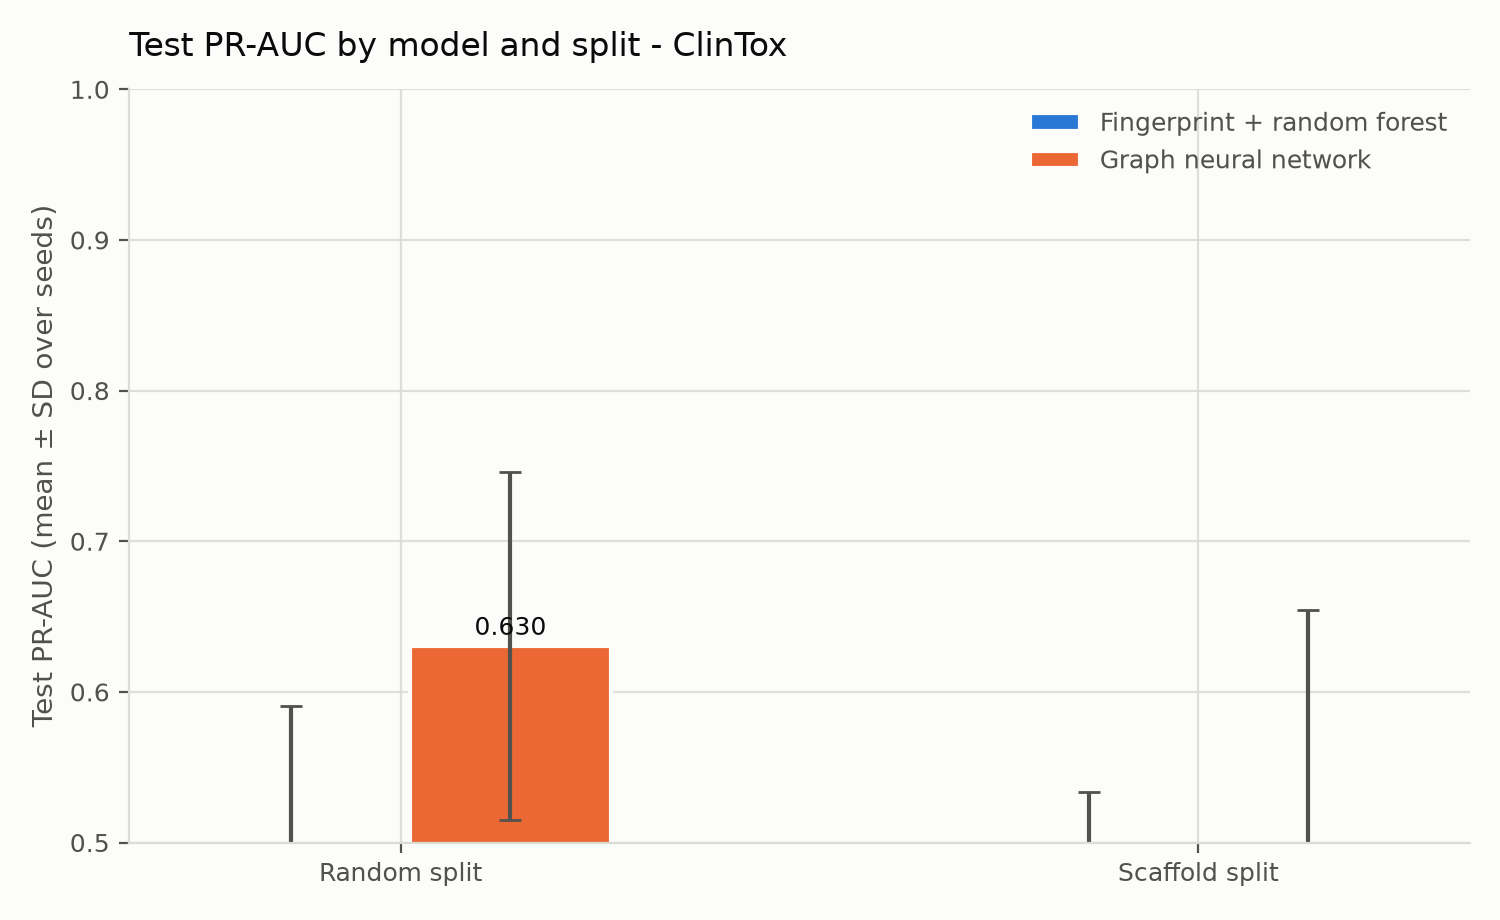
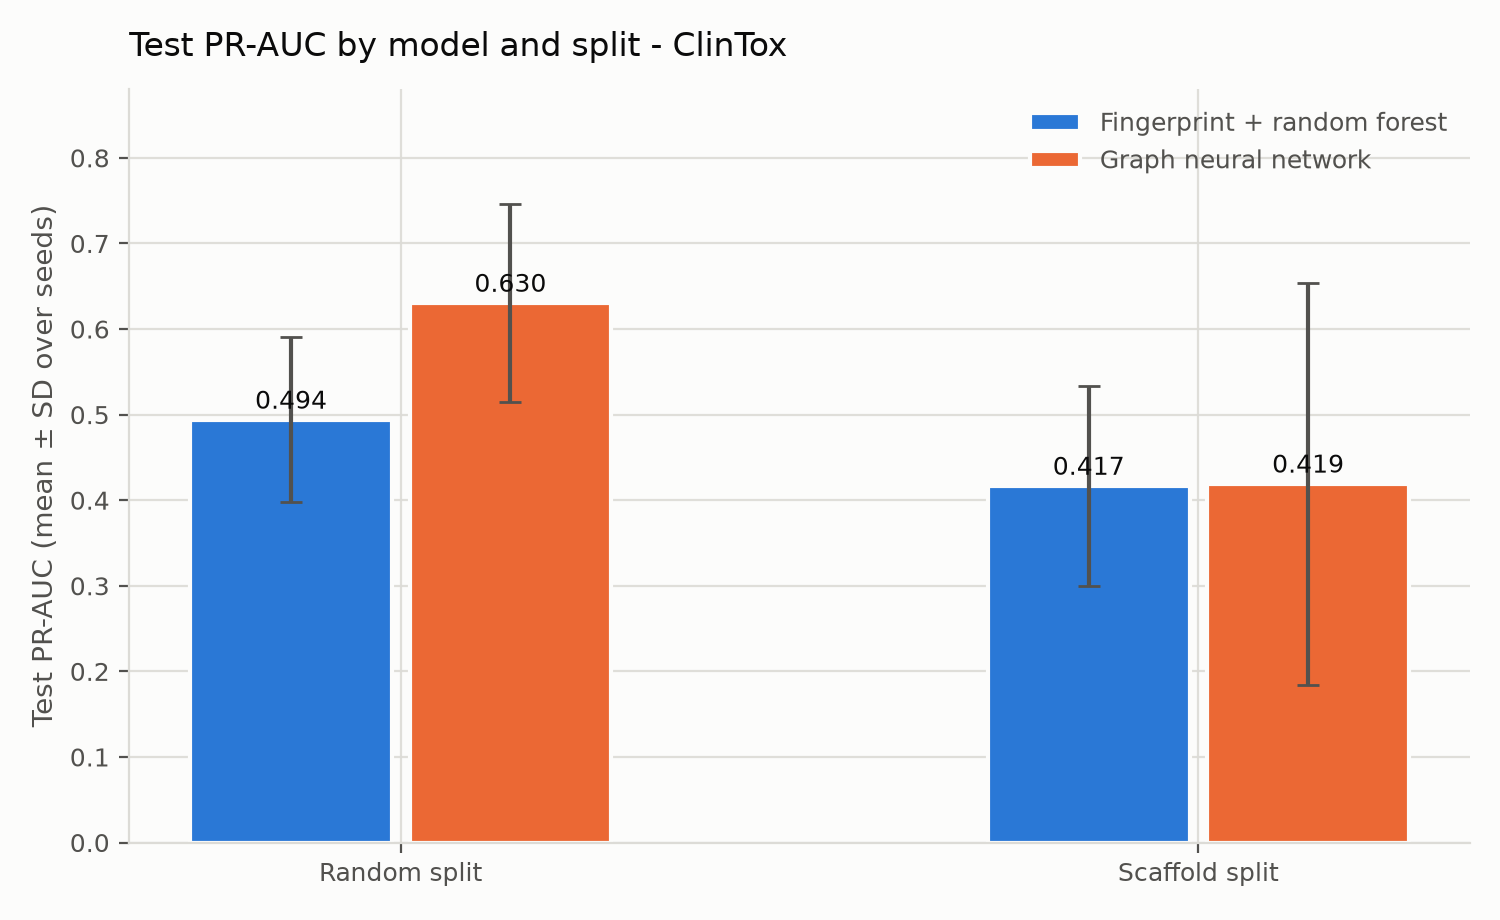
fix(plots): PR-AUC bar charts rendered blank
plot_split_comparison hardcoded ax.set_ylim(0.5, 1.0). That is right for
ROC-AUC, where 0.5 is chance and the bar length should be the part above it,
but it was applied to every metric. Tox21's PR-AUC runs at 0.35-0.47 and
ClinTox's at 0.42-0.63, so the bars were drawn entirely below the axis floor:
the file was written, no error was raised, and the chart was empty except for
its legend. Both random_vs_scaffold_*_pr_auc.png were affected since the day
they were first produced.

The y-limits are now chosen per metric. ROC-AUC keeps the 0.5 chance floor.
PR-AUC has no fixed chance level - it is the positive rate, which differs per
assay and per dataset - so it gets a 0 baseline and the bar length is the
score itself, with headroom for the error bar and a hard cap at 1.0.

Added tests/test_plots.py (10 tests). These do not judge whether a figure
looks good; they cover the one failure mode a figure has that is completely
silent, data drawn outside the visible axis, plus the dataset filtering that
keeps Tox21 bars out of a ClinTox figure. test_pr_auc_figure_would_not_be_blank
pins the exact regression with the four real Tox21 values.

All twelve figures regenerated and the four bar charts inspected: the PR-AUC
pair now shows its bars, and the ROC-AUC pair is unchanged. 143 tests pass.

diff --git a/tests/test_plots.py b/tests/test_plots.py
@@ -1,0 +1,143 @@
+"""Tests for the figures.
+
+These do not check that a figure looks good — they check the one failure a
+figure can have that is completely silent: the data is drawn outside the
+visible axis, so the file is written, no error is raised, and the chart is
+blank. That is exactly what happened with PR-AUC, where a hardcoded 0.5
+y-floor (correct for ROC-AUC, where 0.5 is chance) clipped every bar,
+because Tox21's PR-AUC runs at about 0.35-0.47.
+"""
+
+from __future__ import annotations
+
+from pathlib import Path
+
+import matplotlib
+import pytest
+
+matplotlib.use("Agg")
+
+from admet.analysis.aggregate import ConditionSummary, GapRow  # noqa: E402
+from admet.analysis.plots import (  # noqa: E402
+    _bar_ylim,
+    make_all_figures,
+    plot_split_comparison,
+)
+
+
+def _summary(
+    *,
+    dataset: str = "tox21",
+    model: str = "rf",
+    split: str = "random",
+    fraction: float = 1.0,
+    roc: float = 0.83,
+    pr: float = 0.47,
+) -> ConditionSummary:
+    return ConditionSummary(
+        dataset=dataset,
+        model=model,
+        split=split,
+        train_fraction=fraction,
+        n_seeds=5,
+        roc_auc_mean=roc,
+        roc_auc_std=0.01,
+        pr_auc_mean=pr,
+        pr_auc_std=0.02,
+        n_train=6259,
+    )
+
+
+def _grid(dataset: str = "tox21", *, roc: float = 0.83, pr: float = 0.47):
+    return [
+        _summary(dataset=dataset, model=m, split=s, roc=roc, pr=pr)
+        for m in ("rf", "gnn")
+        for s in ("random", "scaffold")
+    ]
+
+
+# --------------------------------------------------------------------------- #
+# The y-limit rule itself
+# --------------------------------------------------------------------------- #
+
+
+def test_roc_auc_keeps_the_chance_floor() -> None:
+    """0.5 is chance for ROC-AUC, so it stays the baseline."""
+    assert _bar_ylim("roc_auc", [0.83, 0.76]) == (0.5, 1.0)
+
+
+def test_pr_auc_starts_at_zero() -> None:
+    """PR-AUC has no fixed chance level, so the bar length is the score."""
+    low, high = _bar_ylim("pr_auc", [0.47, 0.38])
+    assert low == 0.0
+    assert high > 0.47
+
+
+def test_pr_auc_limit_never_exceeds_one() -> None:
+    _, high = _bar_ylim("pr_auc", [0.99])
+    assert high <= 1.0
+
+
+def test_ylim_survives_no_data() -> None:
+    """An empty series must not raise on max()."""
+    low, high = _bar_ylim("pr_auc", [])
+    assert high > low
+
+
+# --------------------------------------------------------------------------- #
+# The regression: every bar must be inside the axis
+# --------------------------------------------------------------------------- #
+
+
+@pytest.mark.parametrize(
+    ("metric", "value"), [("roc_auc", 0.83), ("pr_auc", 0.47)]
+)
+def test_every_bar_is_inside_the_visible_axis(metric: str, value: float) -> None:
+    """The silent failure: a figure written with its bars off-screen."""
+    low, high = _bar_ylim(metric, [value + 0.02])
+    assert low <= value <= high, (
+        f"{metric} value {value} falls outside the axis {low}-{high}; "
+        "the chart would render blank"
+    )
+
+
+def test_pr_auc_figure_would_not_be_blank() -> None:
+    """Guards the exact regression: Tox21 PR-AUC below a 0.5 floor."""
+    low, high = _bar_ylim("pr_auc", [0.473, 0.442, 0.379, 0.353])
+    for value in (0.473, 0.442, 0.379, 0.353):
+        assert low <= value <= high
+
+
+# --------------------------------------------------------------------------- #
+# Datasets must not be mixed
+# --------------------------------------------------------------------------- #
+
+
+def test_split_comparison_filters_by_dataset(tmp_path: Path) -> None:
+    """A ClinTox figure must not be able to draw a Tox21 bar."""
+    summaries = _grid("tox21", roc=0.83) + _grid("clintox", roc=0.90)
+    path = plot_split_comparison(
+        summaries, tmp_path / "clintox.png", metric="roc_auc", dataset="clintox"
+    )
+    assert path is not None and path.exists()
+
+
+def test_unknown_dataset_writes_nothing(tmp_path: Path) -> None:
+    assert (
+        plot_split_comparison(
+            _grid("tox21"), tmp_path / "x.png", metric="roc_auc", dataset="nope"
+        )
+        is None
+    )
+
+
+def test_make_all_figures_writes_one_set_per_dataset(tmp_path: Path) -> None:
+    summaries = _grid("tox21") + _grid("clintox")
+    gaps: list[GapRow] = []
+    written = make_all_figures(summaries, gaps, tmp_path, metric="roc_auc")
+
+    names = {p.name for p in written}
+    assert "random_vs_scaffold_tox21_roc_auc.png" in names
+    assert "random_vs_scaffold_clintox_roc_auc.png" in names
+    for path in written:
+        assert path.exists() and path.stat().st_size > 0

diff --git a/src/admet/analysis/plots.py b/src/admet/analysis/plots.py
@@ -100,6 +100,27 @@ def _label(mapping: dict[str, str], key: str) -> str:
     return mapping.get(key, key)
 
 
+def _bar_ylim(metric: str, tops: Sequence[float]) -> tuple[float, float]:
+    """Y-limits for the bar chart, by metric.
+
+    A bar chart's baseline has to be a value the reader can treat as "none of
+    it". For ROC-AUC that is 0.5: chance, not zero, so the axis starts there
+    and the bar length is the part above chance.
+
+    PR-AUC has no such fixed level — its chance value is the positive rate,
+    which differs per assay and per dataset — so the baseline is 0 and the
+    bar length is the score itself.
+
+    This used to be a hardcoded ``(0.5, 1.0)``, which silently clipped every
+    PR-AUC figure: Tox21's PR-AUC is about 0.35-0.47, entirely below the
+    floor, so the chart rendered with no bars at all.
+    """
+    if metric == "roc_auc":
+        return 0.5, 1.0
+    headroom = max(tops, default=1.0) * 1.18
+    return 0.0, min(1.0, max(headroom, 0.1))
+
+
 def _suffix(dataset: str | None) -> str:
     """Name the dataset in the title, so no figure is ambiguous about its source."""
     return f" - {DATASET_LABELS.get(dataset, dataset)}" if dataset else ""
@@ -179,6 +200,7 @@ def plot_split_comparison(
     width = 0.55 / max(len(models), 1)
 
     figure, ax = _new_figure()
+    tops: list[float] = []
     for index, model in enumerate(models):
         positions, heights, errors = [], [], []
         for group, split in enumerate(splits):
@@ -191,6 +213,7 @@ def plot_split_comparison(
             positions.append(group + (index - (len(models) - 1) / 2) * width)
             heights.append(getattr(match, f"{metric}_mean"))
             errors.append(getattr(match, f"{metric}_std") or 0.0)
+            tops.append(heights[-1] + errors[-1])
 
         bars = ax.bar(
             positions,
@@ -219,7 +242,7 @@ def plot_split_comparison(
 
     ax.set_xticks(range(len(splits)))
     ax.set_xticklabels([_label(SPLIT_LABELS, s) for s in splits])
-    ax.set_ylim(0.5, 1.0)  # 0.5 is chance for ROC-AUC, the meaningful floor.
+    ax.set_ylim(*_bar_ylim(metric, tops))
     _style_axes(
         ax,
         title=f"Test {metric.replace('_', '-').upper()} by model and split{_suffix(dataset)}",

diff --git a/README.md b/README.md
@@ -25,7 +25,7 @@ matplotlib all publish wheels for 3.12–3.14).
 python -m venv .venv
 source .venv/bin/activate        # .venv\Scripts\activate on Windows
 pip install -e ".[dev]"
-make test                        # 133 tests, ~3 s
+make test                        # 143 tests, ~3 s
 ```
 
 No GPU is needed, and no download: both raw datasets are committed under
@@ -354,7 +354,7 @@ admet-generalization/
 │   └── analysis/
 │       ├── aggregate.py    # results/**/*.json -> summary + gap tables
 │       └── plots.py        # the three figures, one set per dataset
-├── tests/                  # 133 tests
+├── tests/                  # 143 tests
 ├── data/                   # raw datasets, committed so a clone runs offline
 ├── results/
 │   ├── tox21/              # 56 run files
